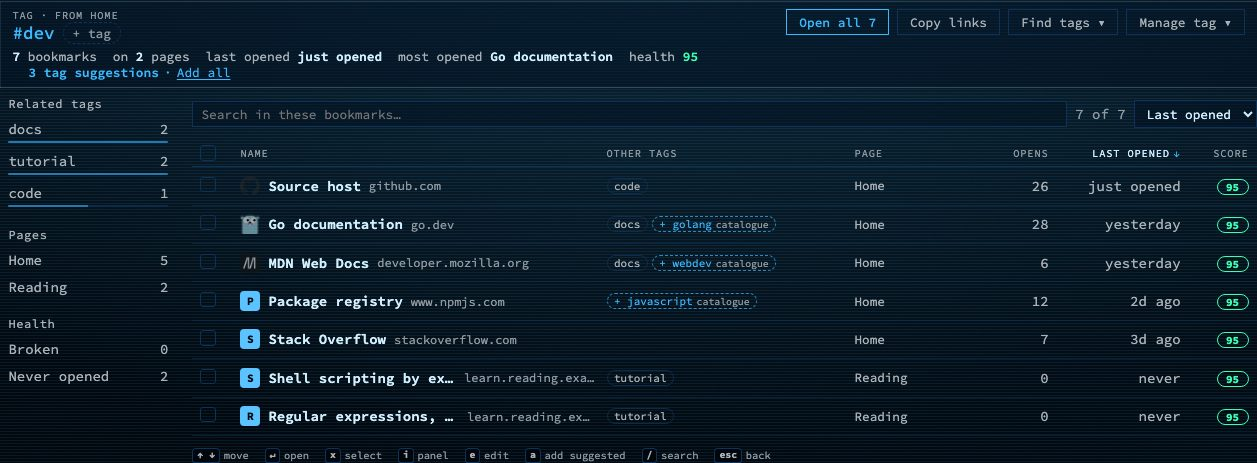
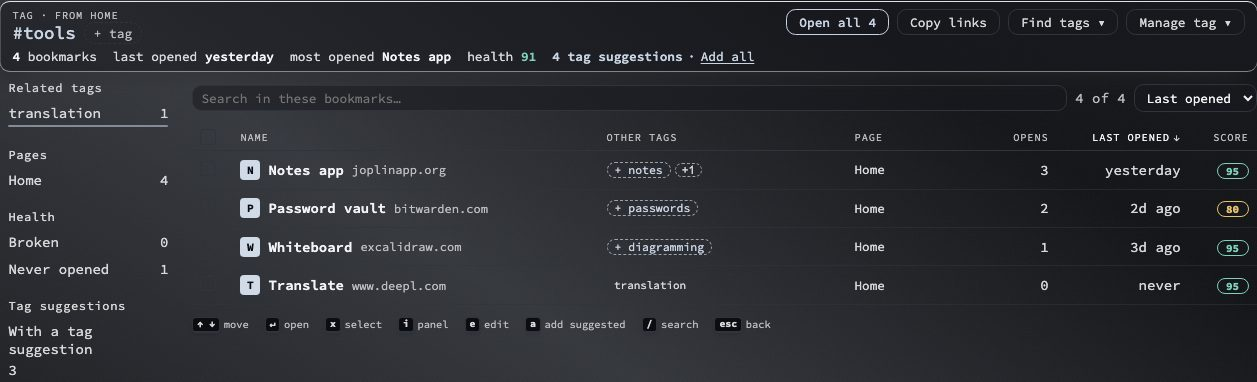
manual shots: tag view offers in Gloss Chrome Since the tag catalogue the demo links carry the tags it would offer, so no tag view offered anything and the scene failed. Its own data patch adds three tools on sites the catalogue knows, tagged tools only, dated before the shots' fixed clock. The alt 

diff --git a/tests/manual-screenshots.spec.js b/tests/manual-screenshots.spec.js
@@ -1307,26 +1307,32 @@ test.describe('tablet', () => {
  * animation speed.
  */
 
-test('10 tag view offers', async ({ page }) => {
-    await prepare(page);
-    await openDashboard(page);
-    await page.keyboard.press('/');
-    await page.locator('#tag-cloud-modal.is-open').waitFor();
-    await page.waitForTimeout(600);
-    const tags = await page.locator('#tag-cloud-modal [data-tag]').evaluateAll((els) => els.map((el) => el.getAttribute('data-tag')));
-    await page.keyboard.press('Escape');
-    // The first tag whose view has something to offer; the demo has few.
-    let found = null;
-    for (const tag of tags) {
-        await page.goto(`/#tag/${encodeURIComponent(tag)}`);
-        await page.locator('#dashboard-layout .tag-view .tag-view-row').first().waitFor();
-        await page.waitForTimeout(1_500);
-        if (await page.locator('.tag-view-offer-count:not([hidden])').count()) { found = tag; break; }
-    }
-    console.log(`tag view with offers: ${found}`);
-    if (!found) throw new Error('no tag view has offers in the demo data');
-    await page.mouse.move(5, 5);
-    await snap(page, page.locator('#dashboard-layout .tag-view'), '10-tag-view-offers.jpg', { pad: 0 });
+test.describe('tools on known sites', () => {
+    // A few tools tagged "tools" only, on sites the tag catalogue knows (see
+    // tidyDemoData), so that tag's view has something to offer.
+    test.use({ dataPatch: 'tagoffers' });
+    test('10 tag view offers', async ({ page }) => {
+        await prepare(page);
+        await openDashboard(page);
+        await page.keyboard.press('/');
+        await page.locator('#tag-cloud-modal.is-open').waitFor();
+        await page.waitForTimeout(600);
+        const tags = await page.locator('#tag-cloud-modal [data-tag]').evaluateAll((els) => els.map((el) => el.getAttribute('data-tag')));
+        await page.keyboard.press('Escape');
+        // "tools" first: the patch is there; then any other tag that offers.
+        const order = ['tools', ...tags.filter((tag) => tag !== 'tools')];
+        let found = null;
+        for (const tag of order) {
+            await page.goto(`/#tag/${encodeURIComponent(tag)}`);
+            await page.locator('#dashboard-layout .tag-view .tag-view-row').first().waitFor();
+            await page.waitForTimeout(1_500);
+            if (await page.locator('.tag-view-offer-count:not([hidden])').count()) { found = tag; break; }
+        }
+        console.log(`tag view with offers: ${found}`);
+        if (!found) throw new Error('no tag view has offers in the demo data');
+        await page.mouse.move(5, 5);
+        await snap(page, page.locator('#dashboard-layout .tag-view'), '10-tag-view-offers.jpg', { pad: 0 });
+    });
 });
 
 test.describe('home assistant tile', () => {

diff --git a/tests/helpers/manual-shot-kit.js b/tests/helpers/manual-shot-kit.js
@@ -263,6 +263,27 @@ function tidyDemoData(dir, patch) {
         writeJSON(settingsFile, settings);
     }
 
+    // One shot only: a few tools on sites the tag catalogue knows, tagged
+    // "tools" and nothing else. Since the catalogue, the demo's own links
+    // carry the tags it would offer, so its tag views have nothing to offer.
+    if (patch === 'tagoffers') {
+        const file = path.join(dir, 'bookmarks-1.json');
+        const data = readJSON(file);
+        // Days before the shots' fixed clock, not before today.
+        const at = NOW.getTime();
+        const added = [
+            ['Notes app', 'https://joplinapp.org', 'NA'],
+            ['Password vault', 'https://bitwarden.com', 'PV'],
+            ['Whiteboard', 'https://excalidraw.com', 'WB'],
+        ].map(([name, url, shortcut], i) => ({
+            name, url, shortcut, pageId: 1, category: 'utilities', checkStatus: false,
+            createdAt: at - (i + 9) * 86_400_000, updatedAt: at - (i + 9) * 86_400_000,
+            openCount: 3 - i, lastOpened: at - (i + 1) * 86_400_000, tags: ['tools'],
+        }));
+        data.bookmarks = [...(data.bookmarks || []), ...added];
+        writeJSON(file, data);
+    }
+
     // One shot only: a page with the Home Assistant tile (its answer is mocked).
     if (patch === 'homeassistant') {
         const pages = readJSON(path.join(dir, 'pages.json'));

diff --git a/MANUAL.md b/MANUAL.md
@@ -1667,7 +1667,7 @@ What it finds lands in the rows as suggestions, and a toast offers **Show**. Wit
 
 **Privacy and switches.** **Look up unknown sites on Wikidata** in the Tag suggestions tab's **⋯** menu switches off every online lookup, the quiet one included. **Forget the scanned keywords** (in the same menu, or under Data & backups → Icons & previews) clears what *Read their pages* kept.
 
-<p align="center"><img src="screenshots/manual.md/10-tag-view-offers.jpg" alt="The tag view for dev: a line reading 3 tag suggestions and Add all under the figures, and dashed suggestion chips after the tags of three rows" width="720"></p>
+<p align="center"><img src="screenshots/manual.md/10-tag-view-offers.jpg" alt="The tag view for tools: a line reading 4 tag suggestions and Add all under the figures, and dashed suggestion chips after the tags of three rows" width="720"></p>
 <p align="center"><sub>Suggestions in the rows of the tag view, with <b>Add all</b> and <b>Find tags</b>.</sub></p>
 
 <p align="center"><img src="screenshots/manual.md/10-tag-suggestions.jpg" alt="The tags field of the bookmark form with one suggested tag, #dev, under it, and a cross to turn it down" width="586"></p>
